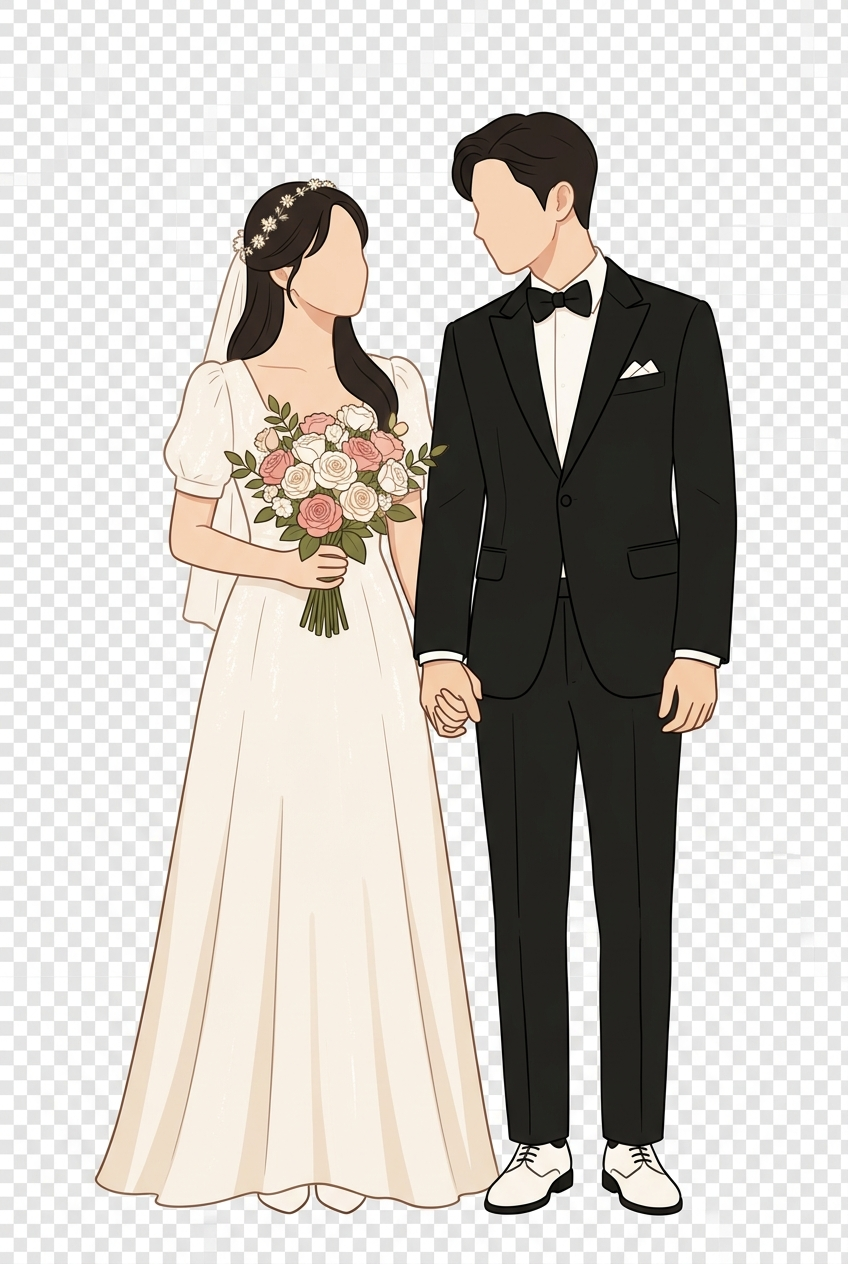
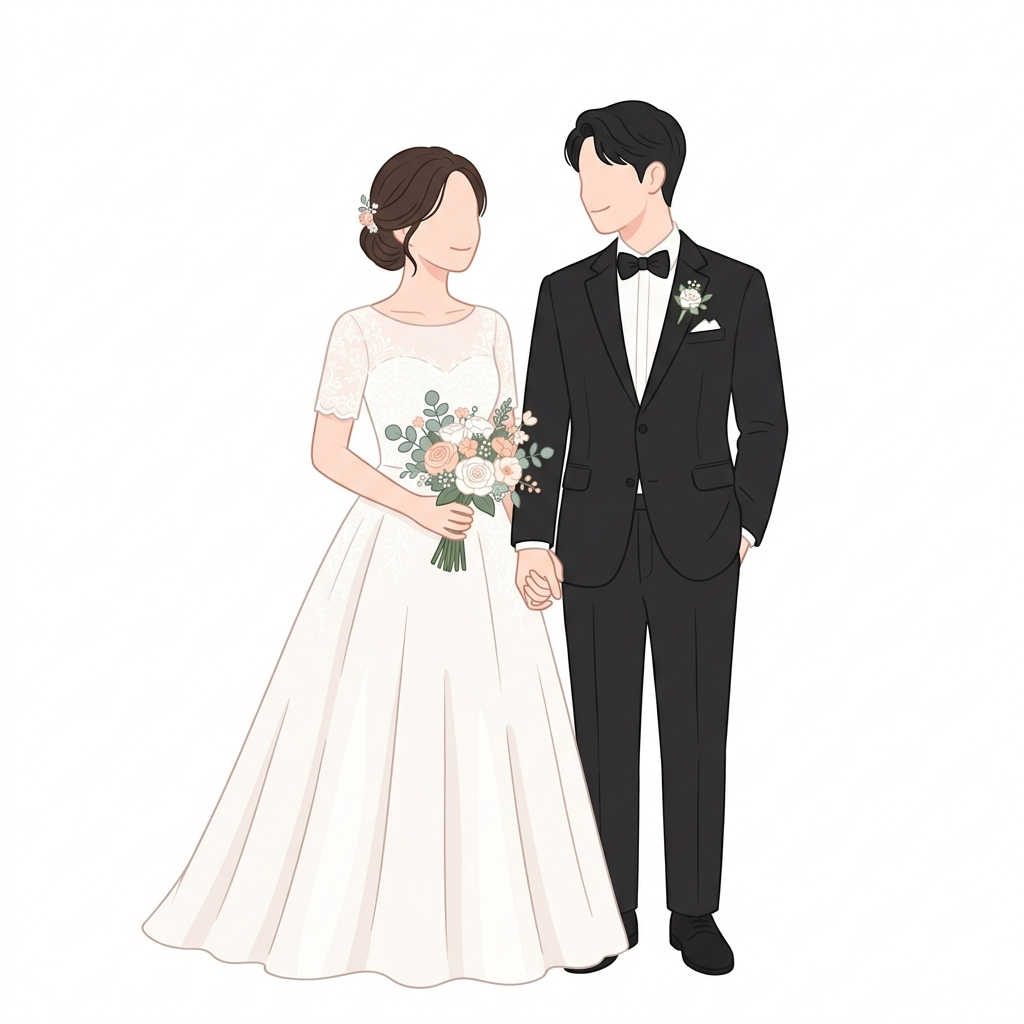
Add files via upload

diff --git a/script.js b/script.js
@@ -94,19 +94,8 @@ musicBtn.addEventListener('click', () => {
 let autoScrollRaf = null;
 let isAutoScrolling = false;
 
-// Остановить автопрокрутку при любом действии пользователя (как в R-D-main)
-const stopAutoScroll = () => {
-    if (isAutoScrolling) {
-        isAutoScrolling = false;
-    }
-};
-
-window.addEventListener('wheel', stopAutoScroll, { passive: true });
-window.addEventListener('touchmove', stopAutoScroll, { passive: true });
-window.addEventListener('mousedown', stopAutoScroll);
-
-// Функция прокрутки — точная копия механики из R-D-main (scrollBy + rAF)
-// scrollSpeed: 0.4px за каждый кадр (~24px/сек при 60fps) — ощущается как «читаешь сам по себе»
+// Функция прокрутки — механика из R-D-main (scrollBy + rAF)
+// 0.4px за кадр = ~24px/сек при 60fps — читается само по себе
 const scrollSpeed = 0.4;
 
 function autoScrollStep() {
@@ -117,11 +106,18 @@ function autoScrollStep() {
     const scrollPos = window.pageYOffset || document.documentElement.scrollTop;
     const totalHeight = document.documentElement.scrollHeight || document.body.scrollHeight;
 
-    // Останавливаемся у самого низа страницы
     if ((window.innerHeight + scrollPos) >= totalHeight - 5) {
         isAutoScrolling = false;
     } else {
         autoScrollRaf = requestAnimationFrame(autoScrollStep);
+    }
+}
+
+// Остановка при действии пользователя
+function stopAutoScroll() {
+    if (isAutoScrolling) {
+        isAutoScrolling = false;
+        if (autoScrollRaf) cancelAnimationFrame(autoScrollRaf);
     }
 }
 
@@ -144,11 +140,17 @@ function openInvitation() {
         // Разблокировка скролла
         document.body.classList.remove('scroll-locked');
         
-        // Запускаем автоскролл через 1с (пока шторки раздвигаются)
+        // Запускаем автоскролл через 1.2с — после того как шторка убралась
+        // Слушатели остановки добавляем ТОЛЬКО здесь, чтобы тап по кнопке не отменял скролл
         setTimeout(() => {
             isAutoScrolling = true;
-            requestAnimationFrame(autoScrollStep);
-        }, 1000);
+            autoScrollRaf = requestAnimationFrame(autoScrollStep);
+
+            // Добавляем слушатели только ПОСЛЕ старта скролла
+            window.addEventListener('wheel', stopAutoScroll, { passive: true, once: false });
+            window.addEventListener('touchmove', stopAutoScroll, { passive: true, once: false });
+            window.addEventListener('mousedown', stopAutoScroll, { once: false });
+        }, 1200);
         
         // Скрытие элемента из DOM после завершения анимации (3.5с)
         setTimeout(() => {

diff --git a/style.css b/style.css
@@ -93,6 +93,7 @@ html {
 
 body {
     font-family: var(--sans), sans-serif;
+    /* Основной фон — тёплый кремовый. Внешняя картинка только поверх как декор */
     background-color: #f5f0e8;
     background-image: url('https://static.tildacdn.pro/tild3234-3532-4665-a239-653162346463/4491a4097bb0270023a5.jpg');
     background-size: cover;
@@ -1211,6 +1212,17 @@ input[type="radio"]:checked + .custom-radio::after {
     body, .welcome-overlay, .bg-decor {
         background-attachment: scroll !important;
     }
+    /* На мобильных iOS background-attachment: fixed не работает —
+       убираем фоновую картинку, оставляем только надёжный цвет,
+       чтобы не было шахматных квадратов нигде на странице */
+    body {
+        background-image: none !important;
+        background-color: #f5f0e8 !important;
+    }
+    /* Сброс маски body::before т.к. картинки нет */
+    body::before {
+        background: rgba(245, 240, 232, 0.0) !important;
+    }
 }
 
 /* Custom Design Overrides for Elegance */
@@ -1361,7 +1373,8 @@ input[type="radio"]:checked + .custom-radio::after {
     border-radius: 150px 150px 8px 8px;
     border: none;
     padding: 0;
-    background: transparent;
+    background: transparent !important;
+    mix-blend-mode: multiply !important;
     box-shadow: none;
     position: relative;
     z-index: 5;